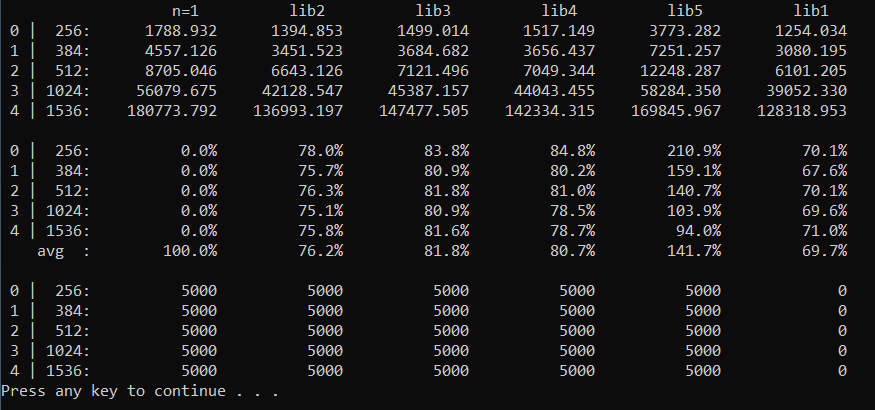
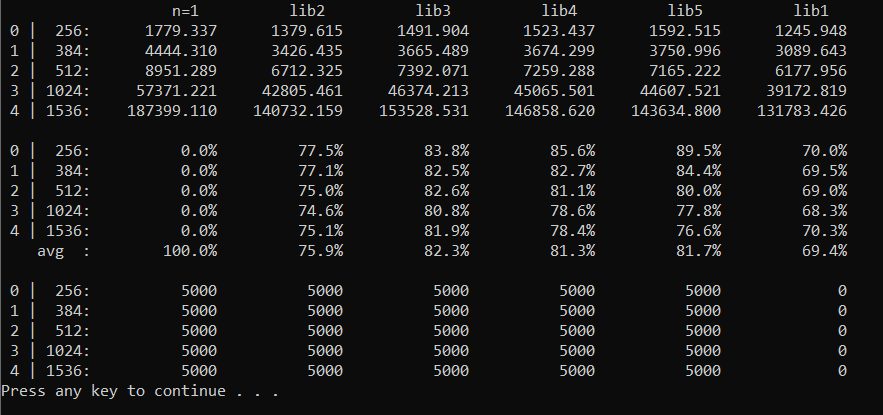
compare library variants

diff --git a/BinModSexp/new_tests.cpp b/BinModSexp/new_tests.cpp
@@ -65,11 +65,12 @@ void compares(int len, big P, csprng &Rng, Result &res)
 			dur4 = getTickCount(&timer4);
 			min4 = (min4 < dur4) ? min4 : dur4;
 
-			// JSF5
+			// lib5
 			startTimer(&timer5);
 			ShamirDecomposit_n(5, k, g, r, y, P);
 			//powmodn_Bin(3, r, y, P, R5);
-			powmod_dJSF(5, y, r, P, R5);
+			//powmod_dJSF(5, y, r, P, R5);
+			powmodn(5, y, r, P, R5);
 			stopTimer(&timer5);
 			dur5 = getTickCount(&timer5);
 			min5 = (min5 < dur5) ? min5 : dur5;
